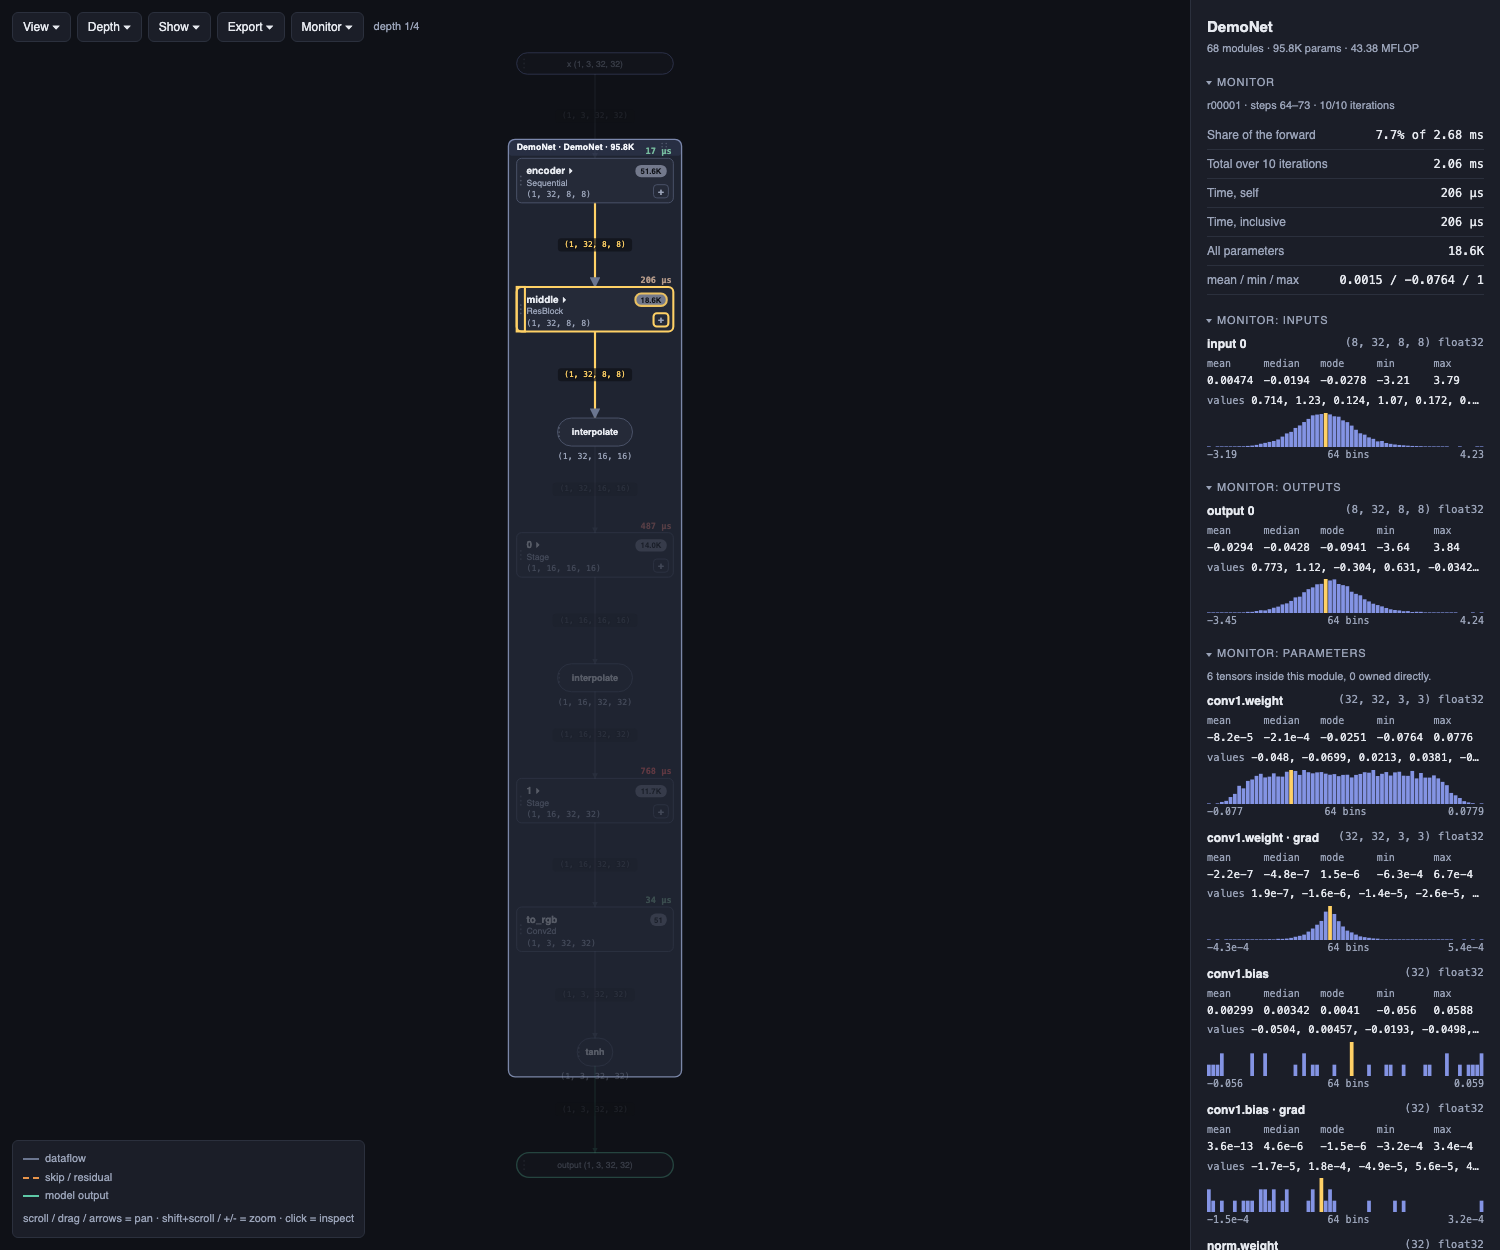
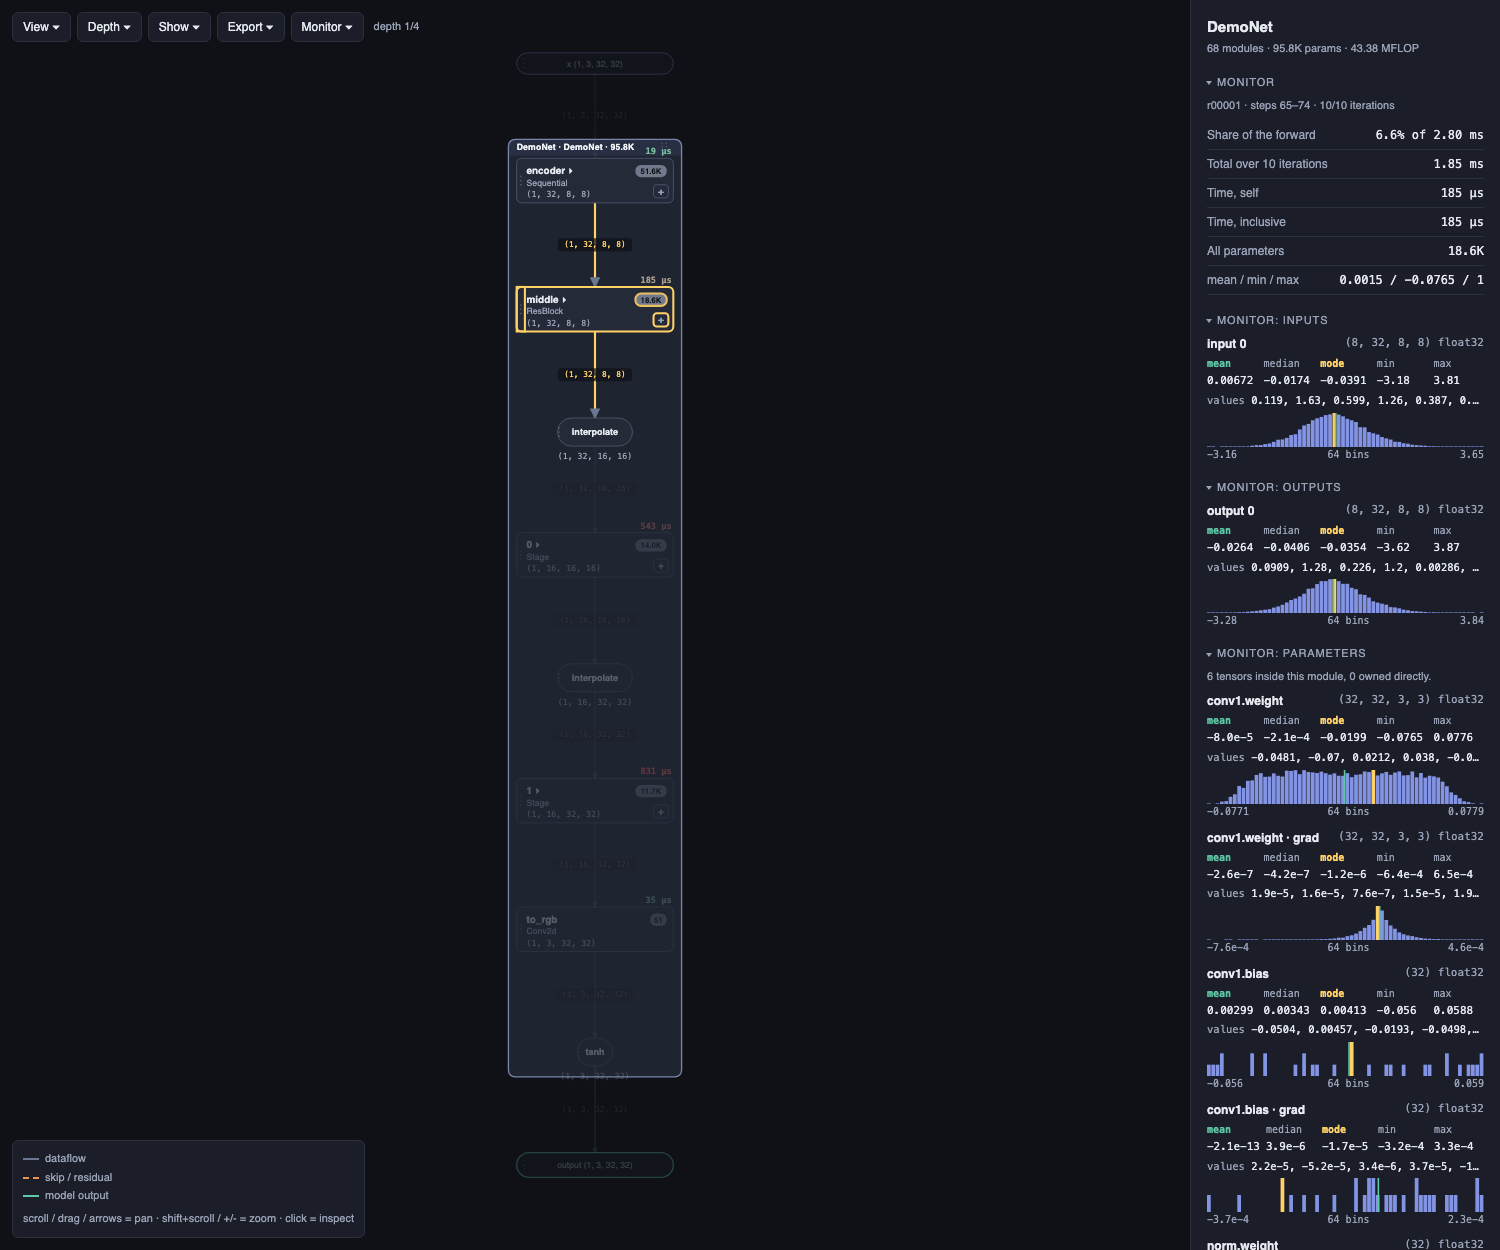
added mean monitoring

diff --git a/monitor/page.py b/monitor/page.py
@@ -95,6 +95,12 @@ _CSS = """<style>
 .mon-h { display:block; width:100%; height:34px; margin-top:4px; }
 .mon-h rect { fill:var(--accent); }
 .mon-h rect.top { fill:var(--hi); }
+.mon-h line.mean { stroke:var(--out); stroke-width:1.6;
+  vector-effect:non-scaling-stroke; }
+.mon-g i.k-mean { color:var(--out); font-weight:700; }
+.mon-g i.k-mode { color:var(--hi); font-weight:700; }
+.mon-dot.mean { background:var(--out); border-radius:1px; width:3px;
+  height:11px; margin:0 8px 0 3px; vertical-align:-1px; }
 .mon-r { display:flex; justify-content:space-between; color:var(--muted);
   font-size:10px; font-family:ui-monospace,SFMono-Regular,Menlo,monospace; }
 .mon-g span.l1, .mon-tt td.l1, .mon-r .l1 { color:var(--skip); font-weight:600; }
@@ -228,10 +234,17 @@ const legend = () => { const T = MON.status && MON.status.thresholds;
     `<span style="color:var(--skip)">≥ ${num(T[k].warn)}</span>, ` +
     `<span style="color:var(--err)">≥ ${num(T[k].danger)}</span>`;
   return `<div class="mon-leg">` +
+    `<b>In each histogram</b><br>` +
+    `<i class="mon-dot mean"></i><b>green line</b>: the mean<br>` +
     `<i class="mon-dot mode"></i><b>yellow bar</b>: the mode, the fullest ` +
-    `histogram bin<br>` +
-    `<i class="mon-dot bar"></i><b>blue bars</b>: how many values fall in ` +
-    `each bin, from min (left) to max (right)<br>` +
+    `bin<br>` +
+    `<i class="mon-dot bar"></i><b>lavender bars</b>: how many values fall ` +
+    `in each bin, from min (left) to max (right)<br>` +
+    `The <span style="color:var(--out);font-weight:700">mean</span> and ` +
+    `<span style="color:var(--hi);font-weight:700">mode</span> labels above ` +
+    `the numbers use the same colours. Median, min and max have no mark: ` +
+    `min and max are the two ends of the histogram.<br>` +
+    `<b>On a number, a tensor or a card</b><br>` +
     `<i class="mon-dot l3"></i><b>blue</b>: too small - all zero, constant, ` +
     `a collapsed activation, a vanishing gradient<br>` +
     `<i class="mon-dot l1"></i><b>orange</b>: large<br>` +
@@ -473,7 +486,8 @@ svg.addEventListener('click', () => setTimeout(paint, 0));
 
 // ---------- results in the details panel -----------------------------------
 const stat5 = (r, kind) => `<div class="mon-g">` +
-  ['mean', 'median', 'mode', 'min', 'max'].map(k => `<i>${k}</i>`).join('') +
+  ['mean', 'median', 'mode', 'min', 'max'].map(k =>
+    `<i class="k-${k}">${k}</i>`).join('') +
   ['mean', 'median', 'mode', 'min', 'max'].map(k => {
     const v = r[k];
     if (!v) return '<span>—</span>';
@@ -491,7 +505,13 @@ function hist(r) {
     r.hist.map((c, i) => { const h = top ? Math.max(c ? .6 : 0, c / top * 34) : 0;
       return `<rect${i === at ? ' class="top"' : ''} x="${(i * w).toFixed(3)}" ` +
         `y="${(34 - h).toFixed(2)}" width="${(w * .86).toFixed(3)}" ` +
-        `height="${h.toFixed(2)}"/>`; }).join('') + `</svg>` +
+        `height="${h.toFixed(2)}"/>`; }).join('') +
+    (() => { const m = r.mean ? r.mean.mean : null, [lo, hi] = r.hist_range;
+      if (m === null || !(hi > lo)) return '';
+      const x = Math.min(99.6, Math.max(0.4, (m - lo) / (hi - lo) * 100));
+      return `<line class="mean" x1="${x.toFixed(2)}" x2="${x.toFixed(2)}" ` +
+        `y1="0" y2="34"><title>mean ${full(m)}</title></line>`; })() +
+    `</svg>` +
     `<div class="mon-r"><span>${num(r.hist_range[0])}</span>` +
     `<span>${r.median_sampled ? 'median on a sample · ' : ''}` +
     `${r.nonfinite ? `<b class="l2">${r.nonfinite} non-finite</b> · ` : ''}` +

diff --git a/monitor/README.md b/monitor/README.md
@@ -168,12 +168,15 @@ The CSV does not carry the colour flags; apply your own limits to its
 
 ### Colours and the legend
 
-Every result has a **legend** section in the details panel. In short:
+Every result has a **legend** section in the details panel. The `mean` and
+`mode` labels above each row of numbers are green and yellow to match the
+histogram. In short:
 
 | Mark | Meaning |
 | --- | --- |
+| green line in a histogram | the mean |
 | yellow bar in a histogram | the mode: the fullest bin |
-| blue bars | how many values fall in each bin, min on the left, max on the right |
+| lavender bars | how many values fall in each bin, min on the left, max on the right |
 | blue dot or text | too small: all zero, constant, a collapsed activation, a vanishing gradient |
 | orange dot or text | large |
 | red dot or text | dangerous (a runaway activation, an exploding gradient) or non-finite (NaN / Inf) |
